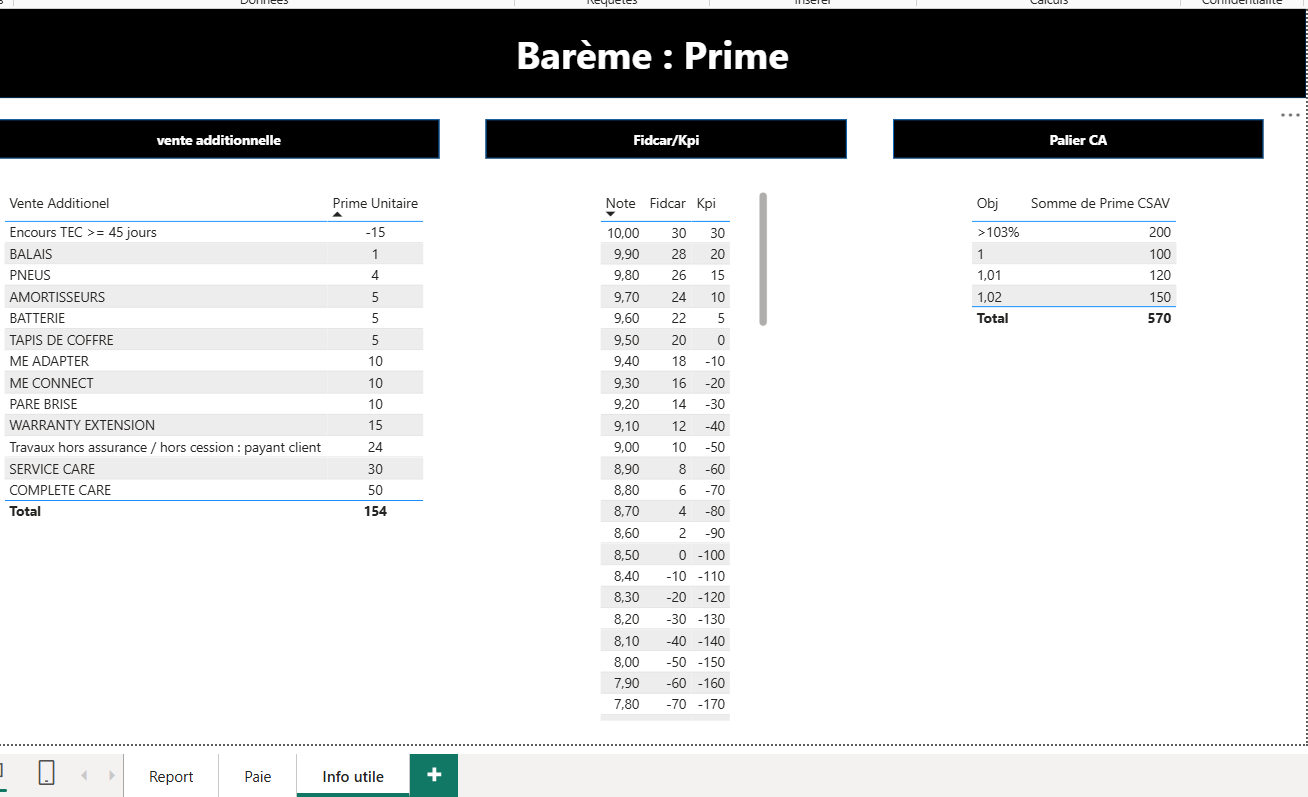
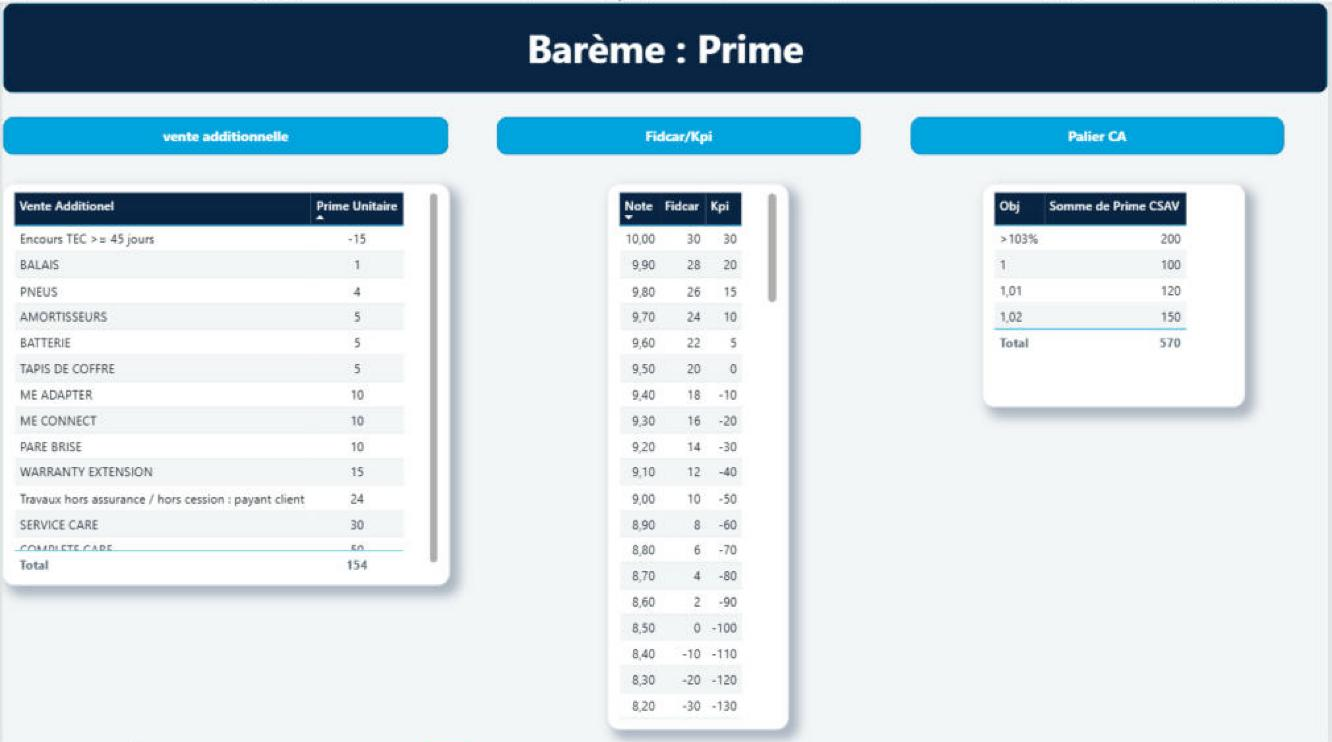
Projet Primes CSAV : nouveau design du rapport Power BI et captures mises à jour
Claude-Session: https://claude.ai/code/session_0145nwQdNq7HycFCDg4aixcg

diff --git a/projets/primes-csav/README.md b/projets/primes-csav/README.md
@@ -40,15 +40,25 @@ Comment fiabiliser le calcul des primes CSAV et donner aux équipes une vue synt
 
 ## Aperçu du dashboard
 
-> Les noms des collaborateurs ont été floutés pour respecter la confidentialité. Les indicateurs globaux restent visibles afin d’illustrer la logique de calcul.
+> Les noms des collaborateurs ont été floutés pour respecter la confidentialité. Les montants restent visibles afin d’illustrer la logique de calcul.
 
 ### Suivi des primes incitatives
 
-![Dashboard prime incitative](images/dashboard-prime-incitative-floute.png)
+Vue mensuelle par site : nombre de conseillers, prime totale et atteinte de l’objectif de chiffre d’affaires. Le premier tableau détaille, pour chaque conseiller, les quantités vendues et les primes par type de vente additionnelle. Le second applique les bonus/malus liés à la note KPI, et le dernier donne la prime totale par conseiller.
+
+![Suivi des primes incitatives](images/dashboard-prime-incitative.png)
+
+### Bordereau de primes pour la paie
+
+Page prête à transmettre à la paie avant le 15 du mois : prime totale par conseiller CSAV et hors CSAV, zone d’observation, signature du responsable SAV et date de validation.
+
+![Bordereau de primes](images/dashboard-bordereau-paie.png)
 
 ### Barème de calcul des primes
 
-![Barème prime](images/dashboard-bareme-prime.png)
+Les trois grilles utilisées dans les calculs : prime unitaire par vente additionnelle, bonus/malus Fidcar et KPI selon la note obtenue, et paliers de prime selon l’atteinte de l’objectif de chiffre d’affaires.
+
+![Barème des primes](images/dashboard-bareme-prime.png)
 
 ## Logique métier du calcul
 
